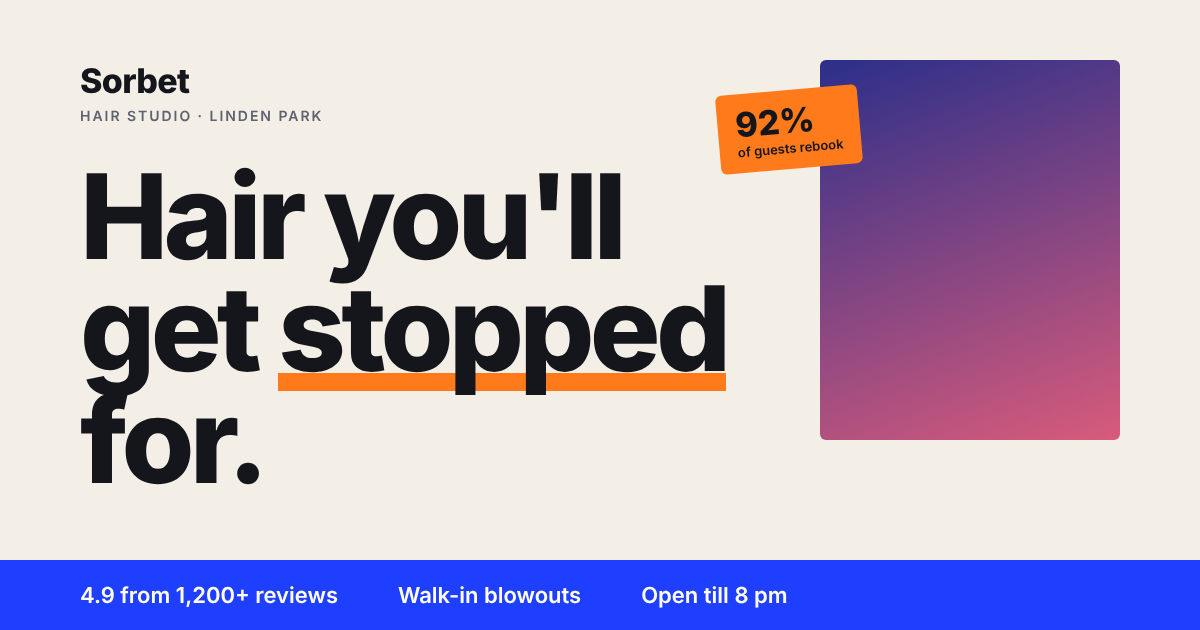
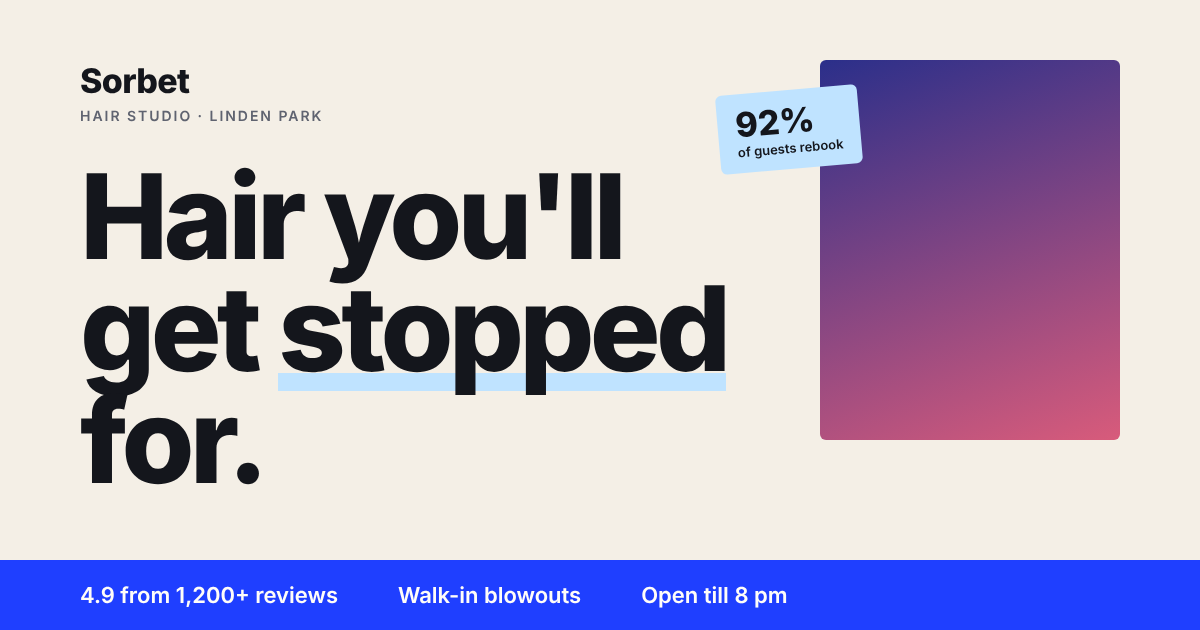
Swap tangerine accent for ice blue
Claude-Session: https://claude.ai/code/session_01Vz3fc3zUReSSDBRSxe1WgN

Changed region(s): [[0.2158, 0.573, 0.6167, 0.6333], [0.5858, 0.1206, 0.74, 0.2714]]

diff --git a/styles.css b/styles.css
@@ -1,7 +1,7 @@
 /* ==========================================================================
    Sorbet Hair Studio — styles.css
    Demo site by Corivo Digital. Plain CSS, mobile-first, no build step.
-   Palette: bone / ink / cobalt / tangerine / sand.
+   Palette: bone / ink / cobalt / ice / sand.
    ========================================================================== */
 
 /* 1. Tokens ------------------------------------------------------------- */
@@ -15,8 +15,8 @@
   --line: rgba(20, 22, 28, 0.14);
   --cobalt: #1f3fff;
   --cobalt-deep: #142ab8;
-  --orange: #ff7a1a;
-  --orange-deep: #d95f06;
+  --ice: #bfe3ff;
+  --ice-deep: #9fd0f7;
   --white: #fffdf9;
 
   --display: "Bricolage Grotesque", "Avenir Next", "Helvetica Neue", sans-serif;
@@ -47,7 +47,7 @@ h1, h2, h3 { margin: 0; font-family: var(--display); font-weight: 800; line-heig
 h2 { font-size: var(--step-4); }
 h3 { font-size: var(--step-2); }
 .u { position: relative; white-space: nowrap; }
-.u::after { content: ""; position: absolute; left: 0; right: 0; bottom: 0.06em; height: 0.16em; background: var(--orange); z-index: -1; border-radius: 2px; }
+.u::after { content: ""; position: absolute; left: 0; right: 0; bottom: 0.06em; height: 0.16em; background: var(--ice); z-index: -1; border-radius: 2px; }
 p, ul, ol, dl, figure, fieldset { margin: 0; }
 ul, ol { padding: 0; list-style: none; }
 img, svg { display: block; max-width: 100%; }
@@ -60,7 +60,7 @@ button { font: inherit; color: inherit; }
 .wrap { width: min(100% - 2 * var(--gutter), 78rem); margin-inline: auto; }
 .eyebrow { display: inline-flex; align-items: center; gap: 0.6rem; margin-bottom: 1rem; font-size: 0.75rem; font-weight: 600; letter-spacing: 0.16em; text-transform: uppercase; color: var(--cobalt); }
 .eyebrow::before { content: ""; width: 1.5rem; height: 3px; background: currentColor; }
-.eyebrow--light { color: var(--orange); }
+.eyebrow--light { color: var(--ice); }
 .lede { margin-top: 1.25rem; font-size: var(--step-1); line-height: 1.5; color: var(--muted); max-width: 34em; text-wrap: pretty; }
 .section__head { max-width: 46rem; margin-bottom: clamp(2.5rem, 5vw, 4rem); }
 
@@ -68,12 +68,12 @@ button { font: inherit; color: inherit; }
 .btn { display: inline-flex; align-items: center; justify-content: center; gap: 0.5rem; min-height: 3.1rem; padding: 0.75rem 1.5rem; border-radius: var(--r); border: 2px solid transparent; font-family: var(--display); font-weight: 700; font-size: 1rem; letter-spacing: -0.01em; text-decoration: none; cursor: pointer; transition: transform 0.25s var(--ease), background 0.2s, color 0.2s, border-color 0.2s; }
 .btn--sm { min-height: 2.6rem; padding: 0.5rem 1.1rem; font-size: 0.92rem; }
 .btn--block { width: 100%; }
-.btn--orange { background: var(--orange); color: var(--ink); border-color: var(--orange); }
-.btn--orange:hover { background: var(--orange-deep); border-color: var(--orange-deep); color: var(--white); }
+.btn--ice { background: var(--ice); color: var(--ink); border-color: var(--ice); }
+.btn--ice:hover { background: var(--ice-deep); border-color: var(--ice-deep); color: var(--ink); }
 .btn--dark { background: var(--ink); color: var(--bone); border-color: var(--ink); }
 .btn--dark:hover { background: var(--cobalt); border-color: var(--cobalt); color: var(--white); }
 .btn--light { background: var(--bone); color: var(--ink); border-color: var(--bone); }
-.btn--light:hover { background: var(--orange); border-color: var(--orange); }
+.btn--light:hover { background: var(--ice); border-color: var(--ice); }
 .btn--line { background: transparent; color: var(--ink); border-color: var(--ink); }
 .btn--line:hover { background: var(--ink); color: var(--bone); }
 .btn:active { transform: translateY(1px); }
@@ -83,8 +83,8 @@ button { font: inherit; color: inherit; }
 
 /* 3. Demo banner / skip ------------------------------------------------- */
 .demo-bar { background: var(--ink); color: var(--bone); font-size: 0.8rem; font-weight: 500; text-align: center; padding: 7px 0; line-height: 1.35; }
-.demo-bar a { color: var(--orange); text-decoration: underline; text-underline-offset: 2px; }
-.skip { position: absolute; left: 1rem; top: -4rem; z-index: 100; padding: 0.6rem 1rem; background: var(--orange); color: var(--ink); border-radius: var(--r); font-weight: 600; }
+.demo-bar a { color: var(--ice); text-decoration: underline; text-underline-offset: 2px; }
+.skip { position: absolute; left: 1rem; top: -4rem; z-index: 100; padding: 0.6rem 1rem; background: var(--ice); color: var(--ink); border-radius: var(--r); font-weight: 600; }
 .skip:focus { top: 1rem; }
 
 /* 4. Header ------------------------------------------------------------- */
@@ -125,7 +125,7 @@ button { font: inherit; color: inherit; }
 .hero__media { position: relative; margin: 0; }
 .hero__media img { width: 100%; aspect-ratio: 4 / 5; object-fit: cover; border-radius: var(--r); }
 .hero__media figcaption { margin-top: 0.6rem; font-size: 0.8rem; letter-spacing: 0.1em; text-transform: uppercase; color: var(--muted); }
-.sticker { position: absolute; left: -0.75rem; top: 1.5rem; display: grid; padding: 0.8rem 1rem; background: var(--orange); color: var(--ink); border-radius: var(--r); font-size: 0.75rem; line-height: 1.2; transform: rotate(-4deg); box-shadow: 0 14px 30px -16px rgba(20, 22, 28, 0.5); }
+.sticker { position: absolute; left: -0.75rem; top: 1.5rem; display: grid; padding: 0.8rem 1rem; background: var(--ice); color: var(--ink); border-radius: var(--r); font-size: 0.75rem; line-height: 1.2; transform: rotate(-4deg); box-shadow: 0 14px 30px -16px rgba(20, 22, 28, 0.5); }
 .sticker b { font-family: var(--display); font-size: 1.8rem; font-weight: 800; line-height: 1; }
 .band { margin-top: clamp(2.5rem, 6vw, 4.5rem); background: var(--cobalt); color: var(--white); }
 .band__in { display: grid; grid-template-columns: repeat(2, 1fr); gap: 0.75rem 1.5rem; padding-block: 1.1rem; font-size: 0.88rem; }
@@ -146,7 +146,7 @@ button { font: inherit; color: inherit; }
 .slider img { position: absolute; inset: 0; width: 100%; height: 100%; object-fit: cover; pointer-events: none; -webkit-user-drag: none; }
 .slider__after { clip-path: inset(0 0 0 var(--x)); }
 .slider__handle { position: absolute; top: 0; bottom: 0; left: var(--x); width: 3px; background: var(--bone); transform: translateX(-1.5px); pointer-events: none; }
-.slider__handle span { position: absolute; top: 50%; left: 50%; translate: -50% -50%; width: 3.2rem; height: 3.2rem; border-radius: 50%; background: var(--orange); color: var(--ink); display: grid; place-items: center; font-size: 0.9rem; font-weight: 800; box-shadow: 0 8px 24px -8px rgba(0, 0, 0, 0.5); }
+.slider__handle span { position: absolute; top: 50%; left: 50%; translate: -50% -50%; width: 3.2rem; height: 3.2rem; border-radius: 50%; background: var(--ice); color: var(--ink); display: grid; place-items: center; font-size: 0.9rem; font-weight: 800; box-shadow: 0 8px 24px -8px rgba(0, 0, 0, 0.5); }
 .slider__tag { position: absolute; bottom: 1rem; padding: 0.35rem 0.7rem; border-radius: var(--r); background: rgba(20, 22, 28, 0.75); color: var(--bone); font-size: 0.7rem; letter-spacing: 0.14em; text-transform: uppercase; font-weight: 600; pointer-events: none; }
 .slider__tag--l { left: 1rem; } .slider__tag--r { right: 1rem; }
 .slider__range { position: absolute; inset: 0; width: 100%; height: 100%; margin: 0; opacity: 0; cursor: ew-resize; }
@@ -184,7 +184,7 @@ button { font: inherit; color: inherit; }
 .idx__tab { position: absolute; top: 0; left: calc(var(--i) * 25%); width: 25%; height: var(--tab-h); display: flex; align-items: center; padding: 0 1rem; clip-path: polygon(0 0, calc(100% - 1.2rem) 0, 100% 100%, 0 100%); background: var(--c); color: var(--cfg); font-family: var(--display); font-size: 0.8rem; font-weight: 700; letter-spacing: 0.06em; text-transform: uppercase; white-space: nowrap; overflow: hidden; }
 .idx__body { background: var(--c); color: var(--cfg); border-radius: 0 var(--r) var(--r) var(--r); padding: clamp(1.4rem, 3vw, 2.5rem); display: grid; gap: 1.5rem; min-height: 24rem; box-shadow: 0 -12px 30px -24px rgba(20, 22, 28, 0.5); }
 .idx--cobalt { --c: var(--cobalt); --cfg: var(--white); }
-.idx--orange { --c: var(--orange); --cfg: var(--ink); }
+.idx--ice { --c: var(--ice); --cfg: var(--ink); }
 .idx--sand { --c: var(--sand); --cfg: var(--ink); }
 .idx--ink { --c: var(--ink); --cfg: var(--bone); }
 .idx__text h3 { font-size: var(--step-3); margin-bottom: 0.75rem; }
@@ -225,7 +225,7 @@ button { font: inherit; color: inherit; }
 /* 11. Stylists ------------------------------------------------------------------------ */
 .team { padding-block: var(--section); background: var(--ink); color: var(--bone); }
 .team .lede { color: rgba(244, 239, 230, 0.7); }
-.team .eyebrow { color: var(--orange); }
+.team .eyebrow { color: var(--ice); }
 .stylists { display: grid; grid-template-columns: repeat(2, 1fr); gap: 1rem; }
 .stylist { position: relative; display: grid; gap: 0.6rem; }
 .stylist img { width: 100%; aspect-ratio: 4 / 5; object-fit: cover; border-radius: var(--r); filter: saturate(0.85); transition: filter 0.3s; }
@@ -233,8 +233,8 @@ button { font: inherit; color: inherit; }
 .stylist div { display: grid; line-height: 1.25; }
 .stylist b { font-family: var(--display); font-size: 1.2rem; }
 .stylist span { font-size: 0.82rem; color: rgba(244, 239, 230, 0.65); }
-.stylist button { justify-self: start; padding: 0.45rem 0.9rem; border-radius: var(--r); border: 1.5px solid var(--orange); background: transparent; color: var(--orange); font-size: 0.85rem; font-weight: 600; cursor: pointer; transition: background 0.2s, color 0.2s; }
-.stylist button:hover { background: var(--orange); color: var(--ink); }
+.stylist button { justify-self: start; padding: 0.45rem 0.9rem; border-radius: var(--r); border: 1.5px solid var(--ice); background: transparent; color: var(--ice); font-size: 0.85rem; font-weight: 600; cursor: pointer; transition: background 0.2s, color 0.2s; }
+.stylist button:hover { background: var(--ice); color: var(--ink); }
 @media (min-width: 48em) { .stylists { grid-template-columns: repeat(5, 1fr); gap: 1.25rem; } }
 
 /* 12. Reviews -------------------------------------------------------------------------- */
@@ -258,7 +258,7 @@ button { font: inherit; color: inherit; }
 .hours dd { margin: 0; font-family: var(--display); font-weight: 700; }
 .book__contact { margin-top: 1.5rem; line-height: 1.7; }
 .book__contact a { text-decoration: none; }
-.book__contact a:hover { color: var(--orange); }
+.book__contact a:hover { color: var(--ice); }
 .form-card { background: var(--bone); color: var(--ink); border-radius: var(--r); padding: clamp(1.3rem, 3vw, 2.25rem); }
 .hp { position: absolute; left: -9999px; }
 .frow2 { display: grid; gap: 1rem; }
@@ -275,7 +275,7 @@ button { font: inherit; color: inherit; }
 .seg input { position: absolute; inset: 0; opacity: 0; }
 .seg span { display: inline-block; padding: 0.55rem 0.9rem; border-radius: var(--r); border: 1.5px solid var(--line); background: var(--white); font-size: 0.9rem; cursor: pointer; transition: background 0.2s, border-color 0.2s, color 0.2s; }
 .seg input:checked + span { background: var(--ink); border-color: var(--ink); color: var(--bone); }
-.seg input:focus-visible + span { outline: 3px solid var(--orange); outline-offset: 2px; }
+.seg input:focus-visible + span { outline: 3px solid var(--ice); outline-offset: 2px; }
 .form-note { margin-top: 0.9rem; font-size: 0.8rem; color: var(--muted); }
 .success { text-align: center; padding: 1.5rem 0; display: grid; justify-items: center; gap: 0.6rem; }
 .success svg { width: 3.5rem; height: 3.5rem; }
@@ -297,21 +297,21 @@ details p { padding: 0 0 1.2rem; color: var(--muted); max-width: 42em; }
 .footer { background: var(--ink); color: var(--bone); padding-block: 3.5rem 1.5rem; }
 .footer__grid { display: grid; gap: 2rem; padding-bottom: 2rem; }
 .footer__tag { font-family: var(--display); font-weight: 800; font-size: var(--step-2); line-height: 1.05; margin-bottom: 1rem; }
-.footer h3 { font-size: 0.75rem; letter-spacing: 0.16em; text-transform: uppercase; color: var(--orange); margin-bottom: 0.6rem; }
+.footer h3 { font-size: 0.75rem; letter-spacing: 0.16em; text-transform: uppercase; color: var(--ice); margin-bottom: 0.6rem; }
 .footer p { line-height: 1.7; color: rgba(244, 239, 230, 0.8); }
 .footer a { text-decoration: none; color: var(--bone); }
-.footer a:hover { color: var(--orange); }
+.footer a:hover { color: var(--ice); }
 .footer__links { display: flex; flex-wrap: wrap; gap: 0.5rem 1.25rem; font-weight: 600; }
 .newsletter__row { display: flex; gap: 0.5rem; margin-top: 0.6rem; }
 .newsletter__row input { flex: 1; min-width: 0; font: inherit; padding: 0.6rem 0.9rem; border-radius: var(--r); border: 1.5px solid rgba(244, 239, 230, 0.3); background: transparent; color: var(--bone); }
-.newsletter__ok { font-weight: 600; margin-top: 0.5rem; color: var(--orange); }
+.newsletter__ok { font-weight: 600; margin-top: 0.5rem; color: var(--ice); }
 .footer__word { font-family: var(--display); font-weight: 800; font-size: clamp(5rem, 22vw, 20rem); line-height: 0.8; letter-spacing: -0.05em; color: var(--cobalt); user-select: none; overflow: hidden; }
 .footer__legal { margin-top: 1.5rem; padding-top: 1rem; border-top: 1px solid rgba(244, 239, 230, 0.15); display: flex; flex-wrap: wrap; justify-content: space-between; gap: 0.5rem; font-size: 0.82rem; }
 .footer__legal a { text-decoration: underline; text-underline-offset: 2px; }
 @media (min-width: 48em) { .footer__grid { grid-template-columns: 1.4fr 1fr 1fr 1.4fr; } }
 
 /* 16. Mobile book bar ---------------------------------------------------------------------- */
-.mobile-book { position: fixed; left: 0.75rem; right: 0.75rem; bottom: calc(0.75rem + env(safe-area-inset-bottom)); z-index: 45; display: flex; align-items: center; justify-content: center; min-height: 3.3rem; border-radius: var(--r); background: var(--orange); color: var(--ink); font-family: var(--display); font-weight: 800; font-size: 1.05rem; text-decoration: none; box-shadow: 0 14px 30px -12px rgba(0, 0, 0, 0.6); }
+.mobile-book { position: fixed; left: 0.75rem; right: 0.75rem; bottom: calc(0.75rem + env(safe-area-inset-bottom)); z-index: 45; display: flex; align-items: center; justify-content: center; min-height: 3.3rem; border-radius: var(--r); background: var(--ice); color: var(--ink); font-family: var(--display); font-weight: 800; font-size: 1.05rem; text-decoration: none; box-shadow: 0 14px 30px -12px rgba(0, 0, 0, 0.6); }
 body { padding-bottom: 4.5rem; }
 @media (min-width: 60em) { .mobile-book { display: none; } body { padding-bottom: 0; } }
 

diff --git a/index.html b/index.html
@@ -58,7 +58,7 @@
         <a href="#menu">Menu</a>
         <a href="#team">Stylists</a>
         <a href="#faq">FAQ</a>
-        <a class="btn btn--orange btn--sm nav__cta" href="#book">Book</a>
+        <a class="btn btn--ice btn--sm nav__cta" href="#book">Book</a>
       </nav>
       <button class="nav-toggle" type="button" aria-expanded="false" aria-controls="nav"><span class="bars" aria-hidden="true"></span><span class="visually-hidden">Open menu</span></button>
     </div>
@@ -74,7 +74,7 @@
           <h1 id="hero-title">Hair you'll get <span class="u">stopped</span> for.</h1>
           <p class="hero__sub">Lived-in color, precision cuts and curl work. A real consult before anything touches your hair, and a styling lesson before you leave.</p>
           <div class="cta-row">
-            <a class="btn btn--orange" href="#book">Book now</a>
+            <a class="btn btn--ice" href="#book">Book now</a>
             <a class="btn btn--line" href="#menu">See the menu</a>
           </div>
           <dl class="hero__facts">
@@ -173,7 +173,7 @@
               <figure class="idx__media"><img src="https://images.unsplash.com/photo-1785456411888-c2e842552820?auto=format&amp;fit=crop&amp;w=800&amp;h=800&amp;q=72" alt="A hand running through long, wavy ombre hair" loading="lazy" decoding="async"></figure>
             </div>
           </article>
-          <article class="idx idx--orange" style="--i:1">
+          <article class="idx idx--ice" style="--i:1">
             <span class="idx__tab"><b>02</b><em>&nbsp;&middot; Cuts</em></span>
             <div class="idx__body">
               <div class="idx__text">
@@ -204,7 +204,7 @@
                 <h3>Extensions &amp; occasions</h3>
                 <p>Hand-tied and tape-in extensions, color-matched in house. Bridal and event styling, with a trial run included.</p>
                 <dl class="facts"><div><dt>From</dt><dd>$320</dd></div><div><dt>Time</dt><dd>2–5 hrs</dd></div><div><dt>Trial</dt><dd>Included</dd></div></dl>
-                <a class="btn btn--orange btn--sm" href="#book" data-service="Extensions or event styling">Book a consult</a>
+                <a class="btn btn--ice btn--sm" href="#book" data-service="Extensions or event styling">Book a consult</a>
               </div>
               <figure class="idx__media"><img src="https://images.unsplash.com/photo-1774660810725-fb04e002003d?auto=format&amp;fit=crop&amp;w=800&amp;h=800&amp;q=72" alt="A stylist creating an updo on a seated client" loading="lazy" decoding="async"></figure>
             </div>
@@ -326,11 +326,11 @@
               </fieldset>
             </div>
             <div class="field"><label for="f-notes">Anything we should know? <span class="opt">(optional)</span></label><textarea id="f-notes" name="notes" rows="3" placeholder="Previous color, allergies, how much time you have in the morning…"></textarea></div>
-            <button class="btn btn--orange btn--block" type="submit">Request a time</button>
+            <button class="btn btn--ice btn--block" type="submit">Request a time</button>
             <p class="form-note">No deposit to request. New-guest color appointments hold a $50 deposit once confirmed, credited to your visit.</p>
           </form>
           <div class="success" id="form-success" role="status" tabindex="-1" hidden>
-            <svg viewBox="0 0 48 48" aria-hidden="true"><circle cx="24" cy="24" r="24" fill="#ff7a1a"/><path d="m15 25 6 6 12-13" fill="none" stroke="#14161c" stroke-width="3.5" stroke-linecap="round" stroke-linejoin="round"/></svg>
+            <svg viewBox="0 0 48 48" aria-hidden="true"><circle cx="24" cy="24" r="24" fill="#bfe3ff"/><path d="m15 25 6 6 12-13" fill="none" stroke="#14161c" stroke-width="3.5" stroke-linecap="round" stroke-linejoin="round"/></svg>
             <h3>Got it. We'll text you.</h3>
             <p id="success-detail">Expect two or three options within the hour during opening times.</p>
           </div>
@@ -373,7 +373,7 @@
         <form name="newsletter" method="POST" action="/" data-netlify="true" id="newsletter-form">
           <input type="hidden" name="form-name" value="newsletter">
           <label class="visually-hidden" for="nl-email">Email address</label>
-          <div class="newsletter__row"><input id="nl-email" name="email" type="email" placeholder="you@example.com" required><button class="btn btn--orange btn--sm" type="submit">Join</button></div>
+          <div class="newsletter__row"><input id="nl-email" name="email" type="email" placeholder="you@example.com" required><button class="btn btn--ice btn--sm" type="submit">Join</button></div>
           <p class="newsletter__ok" id="nl-ok" hidden>You're in. Talk soon.</p>
         </form>
       </div>
